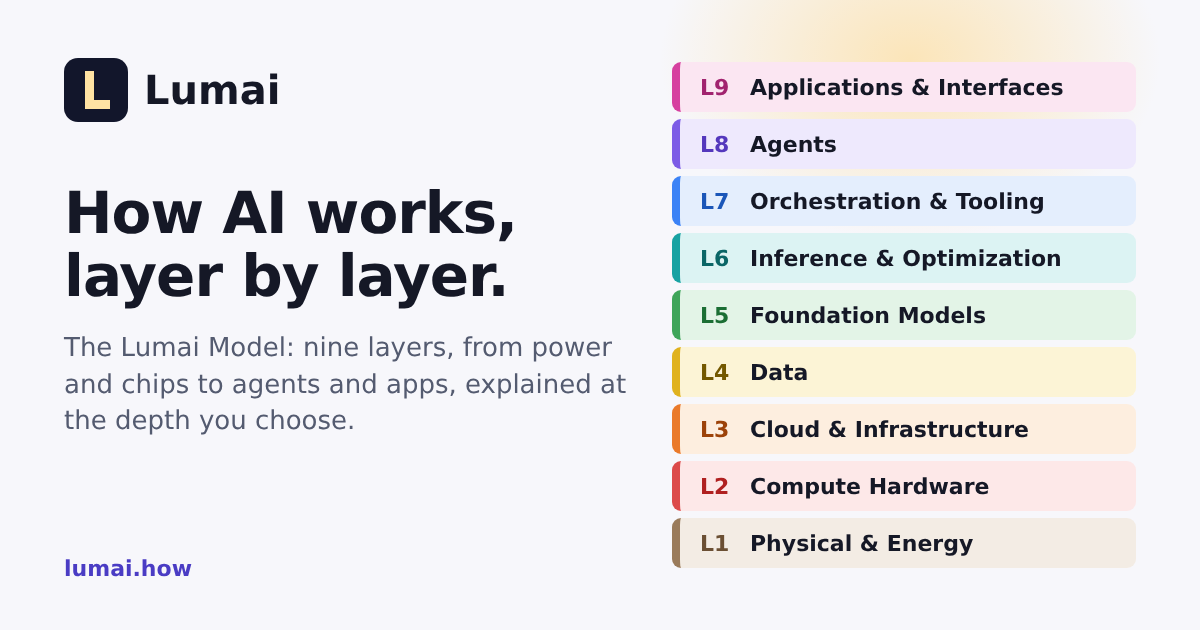
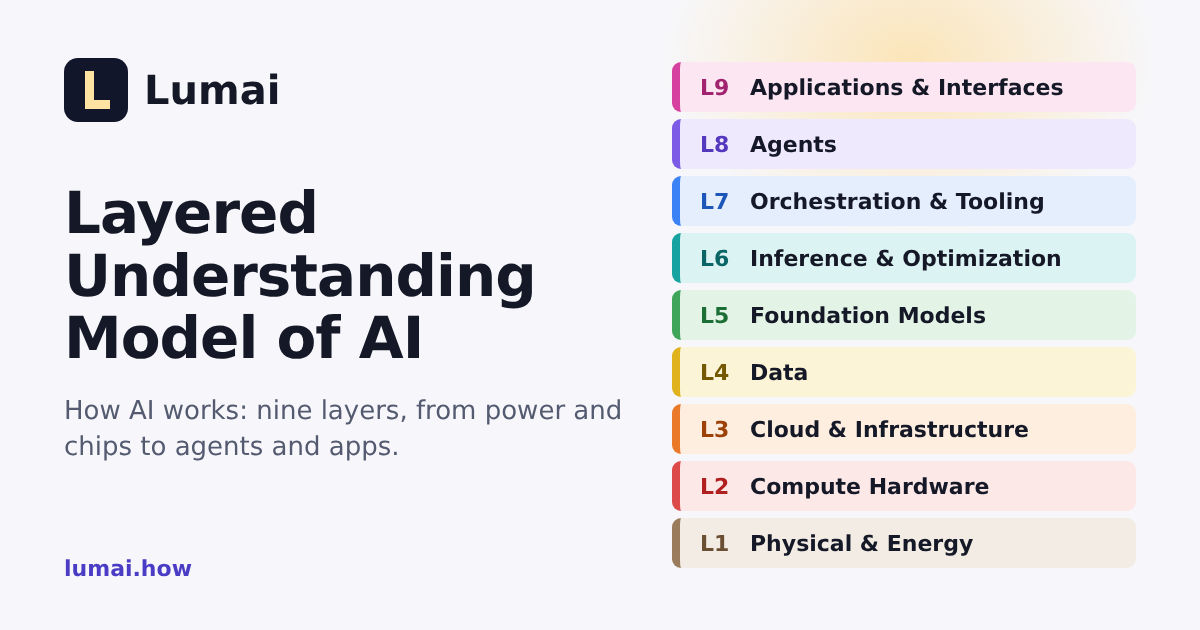
Landing: film-first hero, Lumai tagline is the model name
- Tagline is now "Layered Understanding Model of AI" everywhere (titles,
  meta, header, footers, manifest, film end card, social card).
- Bigger logo and tagline in the header; on phones the landing gives the
  brand its own row.
- The first screen shows only the explainer film and a short intro; the
  layer dashboard starts below the fold. Fewer words in the intro and in
  the film captions.

Changed region(s): [[0.0308, 0.3016, 0.5242, 0.573], [0.0308, 0.6032, 0.5242, 0.7238]]

diff --git a/site/next/next.css b/site/next/next.css
@@ -82,8 +82,10 @@ code { font-family: var(--mono); font-size: .9em; background: var(--surface-2); 
   padding: 10px 20px; background: color-mix(in srgb, var(--bg) 88%, transparent); backdrop-filter: blur(10px);
   border-bottom: 1px solid var(--border);
 }
-.brand { display: flex; align-items: center; gap: 10px; color: var(--text); text-decoration: none; }
-.brand-sub { display: block; font-size: .72rem; color: var(--muted); margin-top: -3px; }
+.brand { display: flex; align-items: center; gap: 12px; color: var(--text); text-decoration: none; }
+.brand img { width: 44px; height: 44px; }
+.brand strong { display: block; font-size: 1.5rem; line-height: 1.1; letter-spacing: -.01em; }
+.brand-sub { display: block; font-size: .9rem; font-weight: 600; color: var(--accent-ink); margin-top: 1px; }
 .crumbs { flex: 1; min-width: 0; }
 .crumbs ol { list-style: none; display: flex; flex-wrap: wrap; align-items: center; gap: 4px; margin: 0; padding: 0; font-size: .88rem; }
 .crumbs li { display: flex; align-items: center; gap: 4px; }
@@ -265,7 +267,6 @@ main:focus { outline: none; }
 
 footer.site { padding: 20px 28px 40px; color: var(--muted); font-size: .82rem; border-top: 1px solid var(--border); }
 .foot-tag { margin: 0 0 4px; color: var(--text); }
-.z0-head .tagline { margin: 0 0 2px; font-size: .95rem; font-weight: 600; color: var(--accent-ink); }
 
 /* ---------- Lumai light motif ----------
    A soft band of light that travels down the page once when the reader zooms in (app.js shine()). It is neutral
@@ -326,7 +327,7 @@ body.is-z0 footer.site { display: none; }
 body.is-z0 main { padding-top: 14px; padding-bottom: 14px; }
 .z0 { display: flex; flex-direction: column; gap: 10px; height: calc(100dvh - var(--bar-h) - 28px); min-height: 600px; }
 .z0-head { display: flex; justify-content: space-between; align-items: flex-end; gap: 16px; flex-wrap: wrap; }
-.z0-head h1 { font-size: clamp(1.4rem, 2.5vw, 1.85rem); margin: 0 0 2px; }
+.z0-head h2 { font-size: clamp(1.4rem, 2.5vw, 1.85rem); margin: 0 0 2px; }
 .z0-head .lede { margin: 0; font-size: .95rem; }
 .z0-head .eyebrow { margin-bottom: 4px; }
 .z0-actions { display: flex; flex-direction: column; align-items: flex-end; gap: 6px; }
@@ -858,29 +859,20 @@ footer.site a { display: inline-block; padding: 5px 0; }
   .bar .brand > span { display: none; } /* logo only; the link keeps its aria-label */
 }
 
-/* landing intro: what Lumai is and how to use it */
-.intro { display: grid; grid-template-columns: minmax(0, 1.1fr) minmax(0, 1fr) auto; gap: 10px 28px; align-items: start;
-  background: var(--surface); border: 1px solid var(--border); border-left: 4px solid var(--accent); border-radius: var(--radius);
-  padding: 14px 18px; margin: 0 0 14px; }
-.intro[hidden] { display: none; }
-.intro h2 { font-size: 1.05rem; margin: 0 0 4px; }
-.intro h2:focus { outline: none; }
-.intro p { margin: 0; font-size: .93rem; }
-.intro-steps { margin: 0; padding-left: 1.2em; font-size: .93rem; display: grid; gap: 3px; }
-.intro-hide { white-space: nowrap; }
-@media (max-width: 980px) {
-  .intro { grid-template-columns: minmax(0, 1fr); }
-  .intro-hide { justify-self: start; }
+/* landing hero: the explainer film and a few words; it fills the first screen so the dashboard starts below the fold */
+.hero { display: grid; grid-template-columns: minmax(0, 1.7fr) minmax(0, 1fr); gap: 20px 40px; align-items: center;
+  min-height: calc(100dvh - var(--bar-h, 62px) - 14px); padding: 8px 0 24px; }
+.hero-side { display: grid; gap: 14px; align-content: center; }
+.hero-side h1 { font-size: clamp(1.9rem, 4vw, 3rem); margin: 0; }
+.hero-side h1:focus { outline: none; }
+.hero-sub { font-size: clamp(1.05rem, 1.6vw, 1.25rem); color: var(--muted); margin: 0; }
+.hero-act { display: flex; flex-wrap: wrap; gap: 10px; }
+.hero-act .btn, .hero-act .btn-ghost { min-height: 46px; font-size: 1rem; padding: 0 18px; }
+@media (max-width: 860px) {
+  .hero { grid-template-columns: minmax(0, 1fr); align-content: start; gap: 16px; padding-top: 0; }
 }
-/* with the intro showing, the landing scrolls instead of squeezing the layer rows into one screen */
-.z0:has(> .intro:not([hidden])) { height: auto; min-height: 0; }
-.z0:has(> .intro:not([hidden])) .land-rows { height: auto; }
-.z0:has(> .intro:not([hidden])) .land-row { flex: none; min-height: 46px; }
-.z0:has(> .intro:not([hidden])) .cc-band { height: auto; }
 
 /* landing explainer film (explainer.js): scenes are cumulative classes .on1…on6 on .ex */
-.intro.has-film { grid-template-columns: minmax(0, 1.25fr) minmax(0, 1fr); gap: 14px 28px; align-items: center; }
-.intro-side { display: grid; gap: 12px; align-content: start; }
 .ex { margin: 0; display: grid; gap: 6px; }
 .ex-svg { display: block; width: 100%; height: auto; background: var(--surface-2); border-radius: 10px; font-family: var(--font); }
 .ex-cap { min-height: 2.9em; font-size: .93rem; font-weight: 600; margin: 2px 2px 0; }
@@ -954,3 +946,18 @@ footer.site a { display: inline-block; padding: 5px 0; }
 .intro-side .intro-hide { justify-self: start; }
 /* phones: the film's labels are illustrative (the HTML caption carries the message), so give it every pixel */
 @media (max-width: 480px) { .intro.has-film { padding: 10px; } .ex-svg { border-radius: 8px; } }
+
+/* landing on phones: the brand and model name get their own row; the layer strip waits below the hero */
+@media (max-width: 720px) {
+  body.is-z0 .bar .brand { flex-basis: 100%; }
+  body.is-z0 .bar .brand > span { display: block; }
+  body.is-z0 .bar .brand strong { font-size: 1.35rem; }
+  body.is-z0 .brand-sub { display: block; font-size: .85rem; }
+  body.is-z0 .bar-actions { margin-left: auto; }
+  body.is-z0 .minimap { display: none; }
+  .brand img { width: 36px; height: 36px; }
+}
+@media (max-width: 720px) {
+  body.is-z0 .crumbs { order: 2; flex: 1 1 auto; flex-basis: auto; }
+  body.is-z0 .bar-actions { order: 3; }
+}

diff --git a/site/next/views/landscape.js b/site/next/views/landscape.js
@@ -4,7 +4,6 @@
 // layer names visible so later screens build on familiar terms). Every row is a zoom target into Z1.
 import { icon } from '../icons.js';
 import { href } from '../router.js';
-import { prefs } from '../store.js';
 import { explainerHtml, mountExplainer } from '../explainer.js';
 import { esc, val, lclass, lnum, freshness, zoomLabel, isPlaceholder } from '../ui.js';
 
@@ -101,31 +100,25 @@ export function landscape(route, c) {
   return {
     zoom: 'Z0', layer: focus, title: 'The AI landscape', bodyClass: 'is-z0',
     crumbs: [{ label: 'Landscape', z: 'Z0' }],
-    html: `<div class="z0">
-      <section class="intro has-film" id="intro" aria-labelledby="intro-title" ${prefs.introHidden ? 'hidden' : ''}>
-        ${explainerHtml(c)}
-        <div class="intro-side">
-          <div class="intro-text">
-            <h2 id="intro-title">What is Lumai?</h2>
-            <p>Lumai (say "loo-my", from <i>lumen</i>, light) shines a light into AI's black box. It is a visual guide to how today's AI works, from the power plants and chips at the bottom to the chatbots and agents at the top.
-              It's for anyone who wants the whole picture without a computer science degree, and for people who work with AI and want to see how the parts fit.</p>
-          </div>
-          <ol class="intro-steps">
-            <li><strong>Pick a layer</strong> below to see its main ideas on one map.</li>
-            <li><strong>Open an idea</strong> and choose how deep to go, from a one-minute story to the open research questions.</li>
-            <li><strong>Check what you know</strong> with a <a href="${href.quiz()}">short quiz</a>, or follow the <a href="news/">AI news feed</a>.</li>
-          </ol>
-          <button class="btn-ghost intro-hide" type="button" data-intro="hide">Got it, hide this</button>
+    html: `<section class="hero" id="intro" aria-labelledby="intro-title">
+      ${explainerHtml(c)}
+      <div class="hero-side">
+        <h1 id="intro-title">See how AI works.</h1>
+        <p class="hero-sub">Nine layers, from power plants to apps. Go as deep as you like.</p>
+        <div class="hero-act">
+          <button class="btn" type="button" data-to-layers>Explore the layers ↓</button>
+          <a class="btn-ghost" href="${href.quiz()}">Take the quiz</a>
         </div>
-      </section>
+      </div>
+    </section>
+    <div class="z0" id="layers">
       <header class="z0-head">
         <div>
           <p class="eyebrow">${zoomLabel('Z0')} Landscape</p>
-          <p class="tagline">How AI works, layer by layer.</p>
-          <h1>The whole AI world, in nine layers</h1>
-          <p class="lede">The Lumai Model runs from power plants to the apps you use; each layer builds on the one below. Select a layer to zoom in.</p>
+          <h2>The whole AI world, in nine layers</h2>
+          <p class="lede">Select a layer to zoom in.</p>
         </div>
-        <div class="z0-actions">${freshness(dash, c.model)}<button class="btn-ghost" type="button" data-intro="show" ${prefs.introHidden ? '' : 'hidden'}>What is this?</button><button class="btn-ghost" type="button" popovertarget="ind-info">${icon('bulb', 'ico-s')}How these are measured</button></div>
+        <div class="z0-actions">${freshness(dash, c.model)}<button class="btn-ghost" type="button" popovertarget="ind-info">${icon('bulb', 'ico-s')}How these are measured</button></div>
       </header>
       <div class="land">
         <div class="land-rows" role="list" aria-label="Layers, top to bottom">
@@ -145,16 +138,13 @@ export function landscape(route, c) {
       </div>
     </div>`,
     mount(root) {
-      const intro = root.querySelector('#intro'), show = root.querySelector('[data-intro="show"]');
-      const set = (hidden) => {
-        prefs.introHidden = hidden;
-        intro.hidden = hidden; show.hidden = !hidden;
-        (hidden ? show : intro.querySelector('h2')).focus?.();
-      };
-      intro.querySelector('h2').tabIndex = -1;
-      root.querySelector('[data-intro="hide"]').addEventListener('click', () => set(true));
-      show.addEventListener('click', () => set(false));
-      mountExplainer(intro.querySelector('.ex'));
+      root.querySelector('[data-to-layers]').addEventListener('click', () => {
+        const head = root.querySelector('#layers');
+        head.scrollIntoView({ behavior: matchMedia('(prefers-reduced-motion: reduce)').matches ? 'auto' : 'smooth' });
+        head.querySelector('.land-row')?.focus({ preventScroll: true });
+      });
+      mountExplainer(root.querySelector('.ex'));
+      if (focus) root.querySelector('#layers').scrollIntoView();
     },
   };
 }

diff --git a/site/index.html b/site/index.html
@@ -5,21 +5,21 @@
   <meta name="viewport" content="width=device-width, initial-scale=1">
   <meta http-equiv="Content-Security-Policy" content="default-src 'self'; script-src 'self'; style-src 'self'; img-src 'self' data:; connect-src 'self'; base-uri 'none'; form-action 'none'">
   <meta name="referrer" content="no-referrer">
-  <title>Lumai · How AI works, layer by layer</title>
-  <meta name="description" content="Lumai shows how AI works, layer by layer: a visual explainer of the Lumai Model, from power and chips to agents and apps, at the depth you choose.">
+  <title>Lumai · Layered Understanding Model of AI</title>
+  <meta name="description" content="Lumai, the Layered Understanding Model of AI: a visual explainer of how AI works, from power and chips to agents and apps, at the depth you choose.">
   <meta name="theme-color" content="#0d1020">
   <link rel="canonical" href="https://lumai.how/">
   <link rel="manifest" href="manifest.webmanifest">
   <meta property="og:type" content="website">
   <meta property="og:site_name" content="Lumai">
-  <meta property="og:title" content="Lumai · How AI works, layer by layer">
-  <meta property="og:description" content="Lumai shows how AI works, layer by layer: a visual explainer of the Lumai Model, from power and chips to agents and apps, at the depth you choose.">
+  <meta property="og:title" content="Lumai · Layered Understanding Model of AI">
+  <meta property="og:description" content="Lumai, the Layered Understanding Model of AI: a visual explainer of how AI works, from power and chips to agents and apps, at the depth you choose.">
   <meta property="og:url" content="https://lumai.how/">
   <meta property="og:image" content="https://lumai.how/assets/social-card-stack.png">
-  <meta property="og:image:alt" content="Lumai: how AI works, layer by layer. The Lumai Model's nine layers, from Physical &amp; Energy up to Applications &amp; Interfaces.">
+  <meta property="og:image:alt" content="Lumai, the Layered Understanding Model of AI: nine layers, from Physical &amp; Energy up to Applications &amp; Interfaces.">
   <meta name="twitter:card" content="summary_large_image">
-  <meta name="twitter:title" content="Lumai · How AI works, layer by layer">
-  <meta name="twitter:description" content="Lumai shows how AI works, layer by layer: a visual explainer of the Lumai Model, from power and chips to agents and apps, at the depth you choose.">
+  <meta name="twitter:title" content="Lumai · Layered Understanding Model of AI">
+  <meta name="twitter:description" content="Lumai, the Layered Understanding Model of AI: a visual explainer of how AI works, from power and chips to agents and apps, at the depth you choose.">
   <meta name="twitter:image" content="https://lumai.how/assets/social-card-stack.png">
   <link rel="icon" href="assets/icon.svg" type="image/svg+xml">
   <link rel="apple-touch-icon" href="assets/icon-192.png">
@@ -34,7 +34,7 @@
   <header class="bar">
     <a class="brand" href="#/" aria-label="Lumai home: the landscape">
       <img src="assets/icon.svg" width="28" height="28" alt="">
-      <span><strong>Lumai</strong><span class="brand-sub">How AI works, layer by layer</span></span>
+      <span><strong>Lumai</strong><span class="brand-sub">Layered Understanding Model of AI</span></span>
     </a>
     <nav class="crumbs" id="crumbs" aria-label="Breadcrumb"></nav>
     <div class="bar-actions">
@@ -48,6 +48,6 @@
     <main id="view" tabindex="-1"><p class="muted">Loading…</p></main>
   </div>
   <div class="sr-only" aria-live="polite" id="announce"></div>
-  <footer class="site"><p class="foot-tag"><strong>Lumai</strong> · How AI works, layer by layer.</p>Pages marked draft haven't had a human review yet. <a href="news/">AI news feed</a> · <a href="feed.xml">Atom feed</a> · <a href="https://github.com/hmussana/Strata">Source &amp; contributions</a> · Code MIT, content CC BY 4.0.</footer>
+  <footer class="site"><p class="foot-tag"><strong>Lumai</strong> · Layered Understanding Model of AI</p>Pages marked draft haven't had a human review yet. <a href="news/">AI news feed</a> · <a href="feed.xml">Atom feed</a> · <a href="https://github.com/hmussana/Strata">Source &amp; contributions</a> · Code MIT, content CC BY 4.0.</footer>
 </body>
 </html>

diff --git a/site/news/index.html b/site/news/index.html
@@ -16,7 +16,7 @@
   <link rel="canonical" href="https://lumai.how/news/">
   <link rel="manifest" href="../manifest.webmanifest">
   <meta property="og:image" content="https://lumai.how/assets/social-card-stack.png">
-  <meta property="og:image:alt" content="Lumai: how AI works, layer by layer.">
+  <meta property="og:image:alt" content="Lumai, the Layered Understanding Model of AI">
   <meta name="twitter:card" content="summary_large_image">
   <meta name="twitter:title" content="AI news feed · Lumai">
   <meta name="twitter:description" content="The latest AI news from labs, papers and the community, refreshed every three hours and sorted by where each story fits in the AI stack.">
@@ -31,7 +31,7 @@
   <header class="topbar">
     <a class="brand" href="#" aria-label="Lumai news home">
       <img src="../assets/icon.svg" alt="" width="30" height="30">
-      <span><strong>Lumai</strong> <span class="brand-sub">AI news, layer by layer</span></span>
+      <span><strong>Lumai</strong> <span class="brand-sub">Layered Understanding Model of AI</span></span>
     </a>
     <div class="status" id="status" aria-live="polite">Loading…</div>
     <div class="top-actions">
@@ -128,7 +128,7 @@
   </main>
 
   <footer class="footer">
-    <p class="foot-tag"><strong>Lumai</strong> · How AI works, layer by layer.</p>
+    <p class="foot-tag"><strong>Lumai</strong> · Layered Understanding Model of AI</p>
     <p>Concept map last reviewed <span id="reviewed">–</span>. News refreshes every 3 hours; the Radar shows what the map is missing.</p>
     <p>No trackers, no cookies, no third-party requests: your "learned" marks and last visit stay in this browser.
       <a href="../feed.xml">Atom feed</a> · <a href="https://github.com/hmussana/Strata">Source &amp; contributions</a> · Code MIT, content CC BY 4.0.</p>

diff --git a/site/next/explainer.js b/site/next/explainer.js
@@ -4,12 +4,12 @@
 import { esc, lclass } from './ui.js';
 
 const SCENES = [
-  { ms: 4200, cap: 'Hundreds of AI stories land every week. It is hard to tell how they connect.' },
-  { ms: 4600, cap: 'Lumai sorts every story into the part of the AI world it belongs to.' },
-  { ms: 4800, cap: 'The Lumai Model: nine layers, each built on the one below: from power and chips up to the apps you use.' },
-  { ms: 5200, cap: 'Open any layer to see its key ideas, and how they link, on one map.' },
-  { ms: 5200, cap: 'Then pick how deep to go, from a one-minute story to the open research questions.' },
-  { ms: 6500, cap: 'For curious readers, students and people who work with AI and want the whole picture.' },
+  { ms: 4200, cap: 'Hundreds of AI stories a week. How do they connect?' },
+  { ms: 4600, cap: 'Lumai puts each one in its layer.' },
+  { ms: 4800, cap: 'Nine layers, from power and chips up to apps.' },
+  { ms: 5200, cap: 'Open a layer: its key ideas on one map.' },
+  { ms: 5200, cap: 'Pick a depth, from a one-minute story to open research.' },
+  { ms: 6500, cap: 'For anyone curious about AI.' },
 ];
 const SUMMARY = 'A short silent animation. ' + SCENES.map((s) => s.cap).join(' ');
 
@@ -84,7 +84,7 @@ function people() {
   const fig = (x) => `<circle cx="${x}" cy="226" r="11"/><path d="M ${x - 19} 266 a 19 19 0 0 1 38 0 z"/>`;
   return `<g class="ex-end">
     <text class="ex-brand" x="${W / 2}" y="104">Lumai</text>
-    <text class="ex-tag" x="${W / 2}" y="140">How AI works, layer by layer.</text>
+    <text class="ex-tag" x="${W / 2}" y="140">Layered Understanding Model of AI</text>
     ${PEOPLE.map((p, i) => {
       const x = 160 + i * 160;
       return `<g class="ex-person c-l${[9, 5, 7][i]}" data-d="${400 + i * 250}">${fig(x)}<text x="${x}" y="292">${esc(p)}</text></g>`;

diff --git a/site/assets/styles.css b/site/assets/styles.css
@@ -109,7 +109,9 @@ button { font: inherit; color: inherit; }
   backdrop-filter: blur(10px); border-bottom: 1px solid var(--border);
 }
 .brand { display: flex; align-items: center; gap: 10px; color: var(--text); text-decoration: none; }
-.brand-sub { color: var(--muted); font-size: .85rem; }
+.brand img { width: 40px; height: 40px; }
+.brand strong { font-size: 1.35rem; }
+.brand-sub { display: block; color: var(--accent); font-size: .85rem; font-weight: 600; }
 .status { color: var(--muted); font-size: .85rem; flex: 1; min-width: 180px; }
 .status .pill-new { background: var(--accent); color: #fff; border-radius: 999px; padding: 1px 8px; font-weight: 600; font-size: .78rem; text-decoration: none; }
 .top-actions { position: relative; display: flex; gap: 8px; align-items: center; }

diff --git a/site/next/index.html b/site/next/index.html
@@ -6,7 +6,7 @@
   <meta http-equiv="Content-Security-Policy" content="default-src 'self'; script-src 'self'; style-src 'self'; img-src 'self' data:; base-uri 'none'; form-action 'none'">
   <meta name="robots" content="noindex">
   <link rel="canonical" href="https://lumai.how/">
-  <title>Lumai · How AI works, layer by layer</title>
+  <title>Lumai · Layered Understanding Model of AI</title>
   <script src="redirect.js"></script>
 </head>
 <body>

diff --git a/scripts/fetch_news.py b/scripts/fetch_news.py
@@ -582,7 +582,7 @@ def write_atom(items: list[dict], tagger: Tagger, path: Path, now: dt.datetime) 
             el.text = text
         return el
 
-    sub(feed, "title", "Lumai: AI news, layer by layer")
+    sub(feed, "title", "Lumai: AI news")
     sub(feed, "subtitle", "Stories from labs, community, research and press, tagged by concept.")
     sub(feed, "id", SITE_URL)
     sub(feed, "link", href=SITE_URL)

diff --git a/README.md b/README.md
@@ -4,7 +4,7 @@
 
 <h1 align="center">Lumai</h1>
 
-<p align="center"><strong>How AI works, layer by layer.</strong><br>
+<p align="center"><strong>Layered Understanding Model of AI</strong><br>
 Lumai (say "loo-my", from <em>lumen</em>, light) brings light into AI's black box. It teaches <strong>the Lumai Model</strong>,<br>
 short for the <em>Layered Understanding Model of AI</em>: nine layers, named the way the OSI Model names network layers<br>
 (Lumai Layer 1, Physical &amp; Energy, up to Lumai Layer 9, Applications &amp; Interfaces).<br>
@@ -47,7 +47,7 @@ The news feed still files stories on this earlier seven-layer map. The explainer
 
 Security, safety and governance run across all seven. Remember it top-down: **A**ll **T**ools **C**an **I**nvoke **M**odels **W**ith **C**ompute.
 
-<p align="center"><img src="site/assets/social-card-stack.png" width="720" alt="Lumai: how AI works, layer by layer. The nine layers of the Lumai Model."></p>
+<p align="center"><img src="site/assets/social-card-stack.png" width="720" alt="Lumai, the Layered Understanding Model of AI. The nine layers of the Lumai Model."></p>
 
 ## What's inside
 
